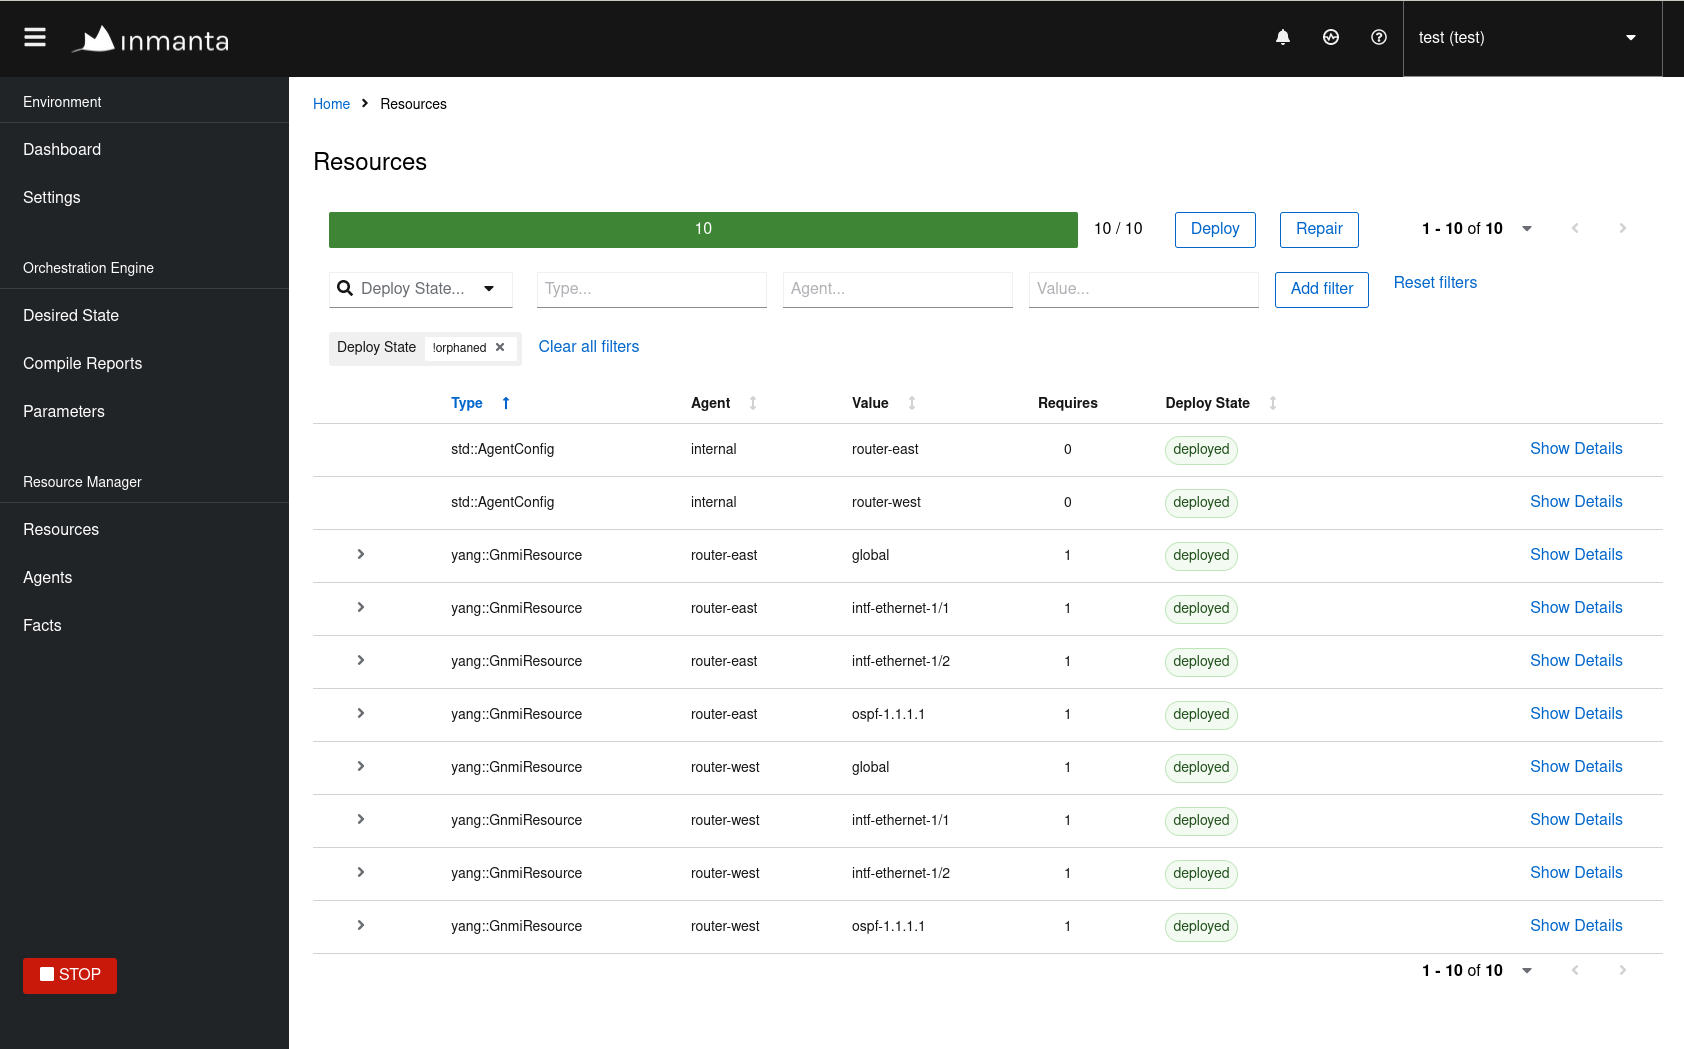
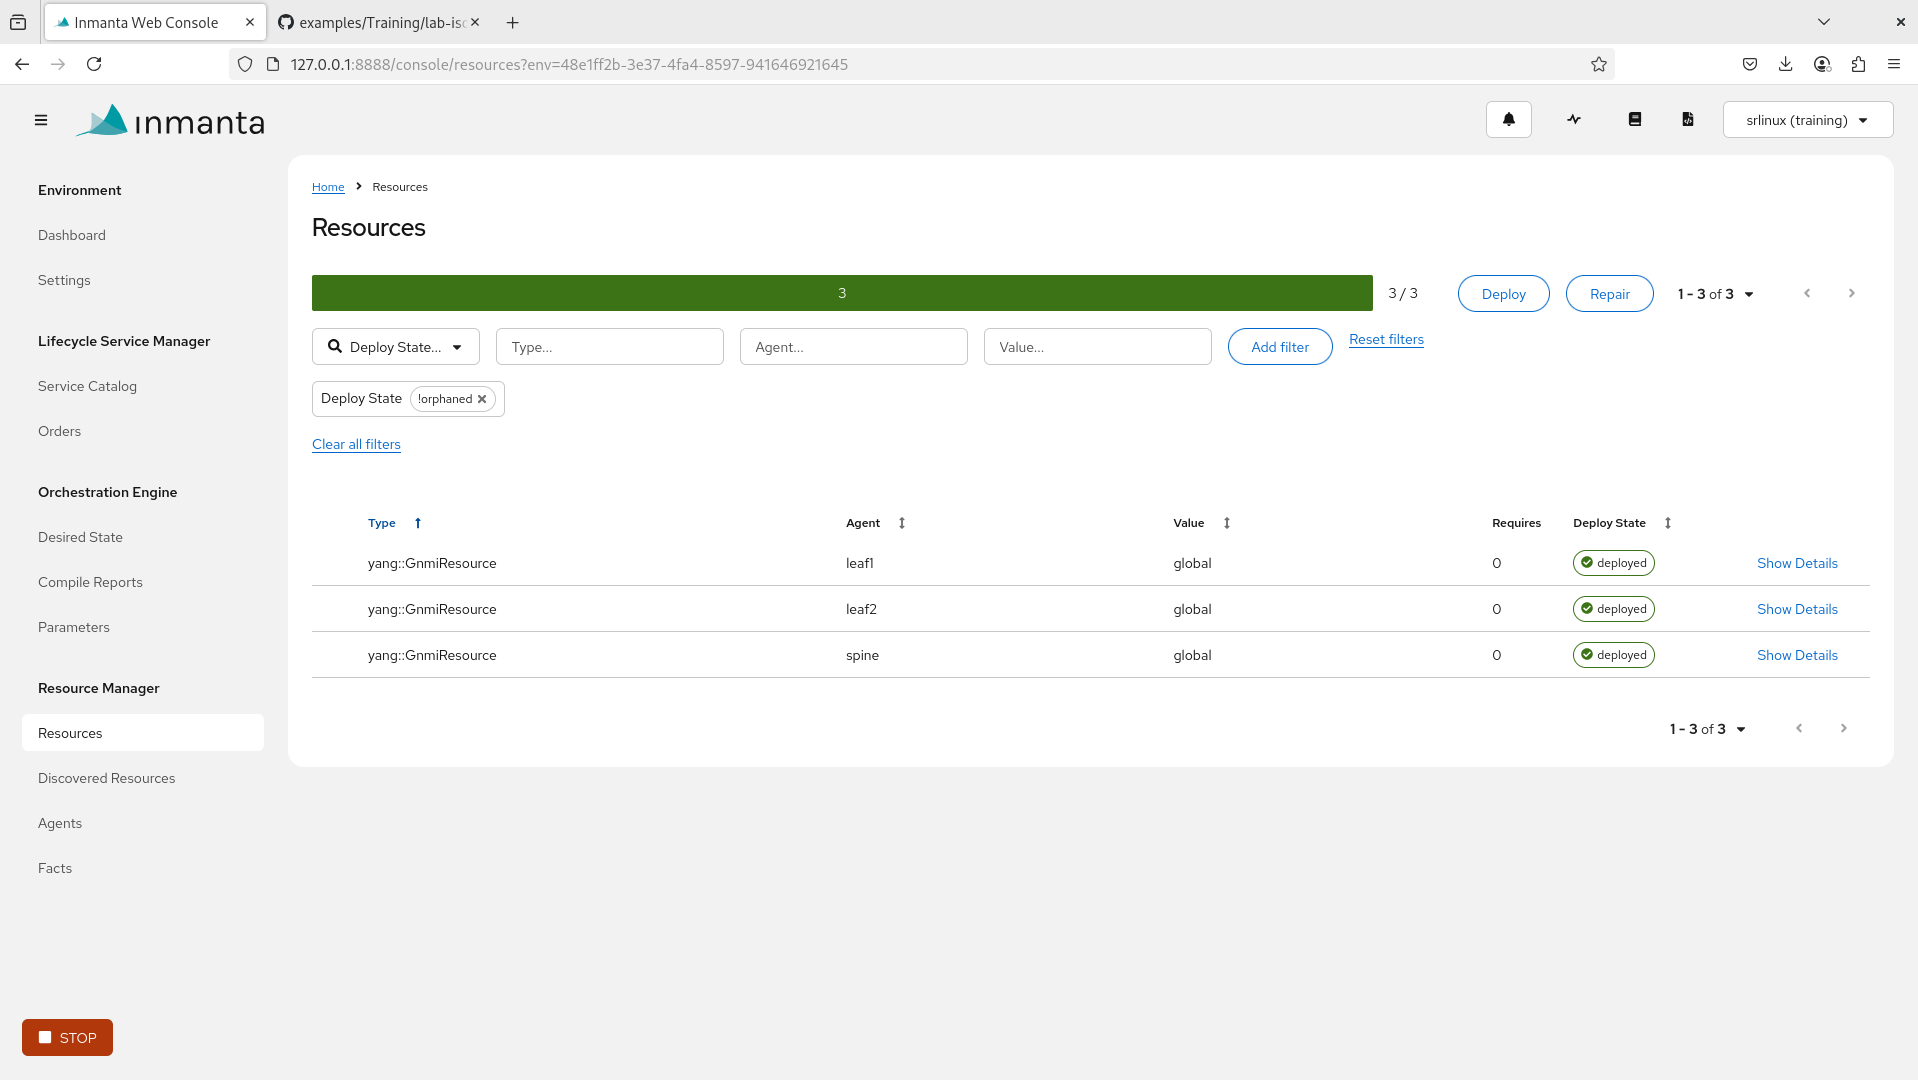
More cleanup

diff --git a/Training/1-basic-deployment.md b/Training/1-basic-deployment.md
@@ -77,7 +77,7 @@ Where we create both a project and an environment:
     (env) $ inmanta -vv export
     ```
 
-3. Open the orchestrator resource view, and see all the elements of the desired state, being deployed.  Once again, click around to see what is happening.
+3. Open the [orchestrator](http://172.30.0.3:8888/) resource view, and see all the elements of the desired state, being deployed.  Once again, click around to see what is happening.
     ![Alt text](images/orchestrator-resources-page.png)
 
 4. (Optional) Investigating deployment issues.  If you didn't use exactly the same ip plan, or ospf area id or network instance name in the manual configuration as in the inmanta model, the orchestrator might struggle to push the configuration.  You would notice it as some resources would be marked as `failed`.  To fix this you have two options:
@@ -87,15 +87,17 @@ Where we create both a project and an environment:
 
 ## Discovering the configuration model
 
-The model we compiled and sent to the orchestrator is the one in [configure_ospf.cf](./configure_ospf.cf).  Let's have a look at the different elements in there.  Overall, the file looks like a configuration file, for a distributed system, and it is exactly what it is.
+The model we compiled and sent to the orchestrator is the one in [main.cf](./main.cf).  Let's have a look at the different elements in there.  Overall, the file looks like a configuration file, for a distributed system, and it is exactly what it is.
 
-1. The `Router` entities.
+1. The `GnmiDevice` entities.
     ```
-    srlinux_helper::Router(
-        name="router-east",
-        address="172.30.0.4",
-        username="admin",
-        password="NokiaSrl1!",
+    nokia_srlinux::GnmiDevice(
+        mgmt_ip="172.30.0.210",
+        name="leaf1",
+        yang_credentials=Credentials(
+            username="admin",
+            password="NokiaSrl1!",
+        ),
     )
     ```
 
@@ -103,31 +105,61 @@ The model we compiled and sent to the orchestrator is the one in [configure_ospf
 
 2. The `Interface` entities.
     ```
-    srlinux_helper::Interface(
-        router=router_east,
+    nokia_srlinux::Interface(
+        device=leaf1,
         name="ethernet-1/1",
-        ipv4_address="10.0.1.1/30",
+        admin_state="enable",
+        subinterface=Subinterface(
+            x_index=0,
+            admin_state="enable",
+            ipv4=Ipv4(
+                admin_state="enable",
+                address=Address(
+                    ip_prefix="10.10.11.2/30",
+                ),
+            ),
+        ),
     )
     ```
 
-    These entities represent the interface we want to configure on the device.  The entity is actually an abstraction of the configuration we want to push.  We care about the ip address that should be assigned to the full interface with the given name.  It is way less verbose than the srlinux cli, and matches more the level of abstraction we need for our lab configuration.  If you open the model in the [srlinux_helper](./inmanta-module-srlinux-helper/model/_init.cf#L82) module, you can see how this entity is refined into the exact configuration that srlinux expects.  For more information about refinements, please refer to the language reference documentation: https://docs.inmanta.com/community/latest/language.html#refinements  
-    These entities will generate one resource each, looking like `intf-ethernet-1/1`, attached to the device that is referenced in the `router` relation.
+    These entities represent the interface we want to configure on the device.  The entity is an exact representation of the yang config we want to push.
 
-3. The `Ospf` entities.
+3. The `NetworkInstance` entities.
     ```
-    srlinux_helper::Ospf(
-        router=router_east,
-        area_id="1.1.1.1",
-        interfaces=[east_to_west, east_to_sub],
+    nokia_srlinux::NetworkInstance(
+        device=leaf1,
+        name="default",
+        admin_state="enable",
+        interface=Interface(
+            name="ethernet-1/1.0",
+        ),
+        protocols=Protocols(
+            ospf=Ospf(
+                instance=Instance(
+                    name="1",
+                    admin_state="enable",
+                    version="srl_nokia-ospf-types:ospf-v2",
+                    router_id="172.30.0.210",
+                    area=Area(
+                        area_id="0.0.0.0",
+                        interface=Interface(
+                            interface_name="ethernet-1/1.0",
+                        ),
+                    ),
+                ),
+            ),
+        ),
     )
     ```
 
-    These entities represent the ospf configuration, and all the interfaces that should be included in it.  Once more, you can have a look at the `srlinux_helper` module to understand better how it is translated to real srlinux configuration.  Each of these entities will emit one resource, looking like `ospf-1.1.1.1`, attached to the device that is referenced in the `router` relation.
+    These entities represent the ospf configuration, and all the interfaces that should be included in it.  Once more, the entity is an exact representation of the yang config we want to push.
+
 
 All of these components will form our desired state.  Take some time to play with them, and see how easy it is to deploy some changes on the different devices.  You can for example:
 - Set the `purged` attribute to `true` for any interface or ospf configuration, then observe that the corresponding configuration has disappeared on the device.
-- Change an ip address and see it change on the interface.
+- Change an ip address and see it get added to the interface.
 - Change the `area_id`, and observe that the resource will fail to deploy... but why?  Well, when that change is made, we will tell the router that we want an ospf area with the given id, attached to the given interfaces.  But these interfaces are also part of the previous area, that we never told the router to remove.  Any how to make this work?  Give it a try and ask for help if you can't figure it out!
+- Set `comanaged` to `false` on any entity. This changes the management mode. When co-management is set to true (the default), we ignore all config we have no desired state about. When setting co-managed to 'false', we want the config to be exactly as specified. Anything we have desired state about is removed. This is why changing the ip address adds an ip address: the old one is no longer mentioned so we ignore it. When setting co-managed to false on any node above the ip, the old IP is removed. 
 
 
 > **Next:**
